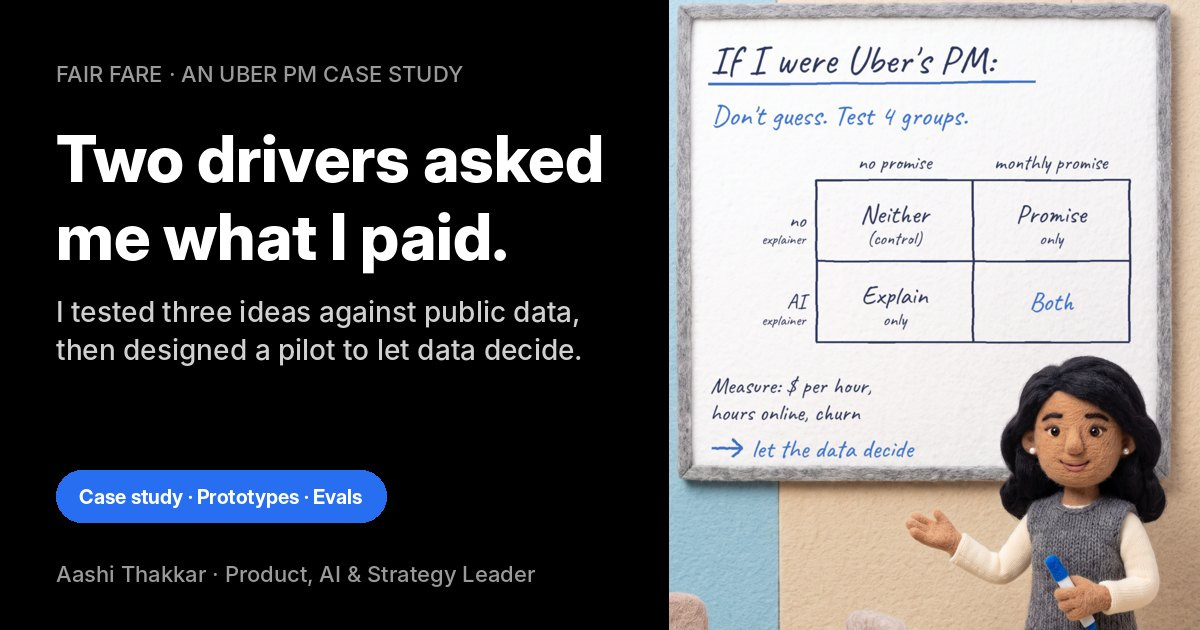
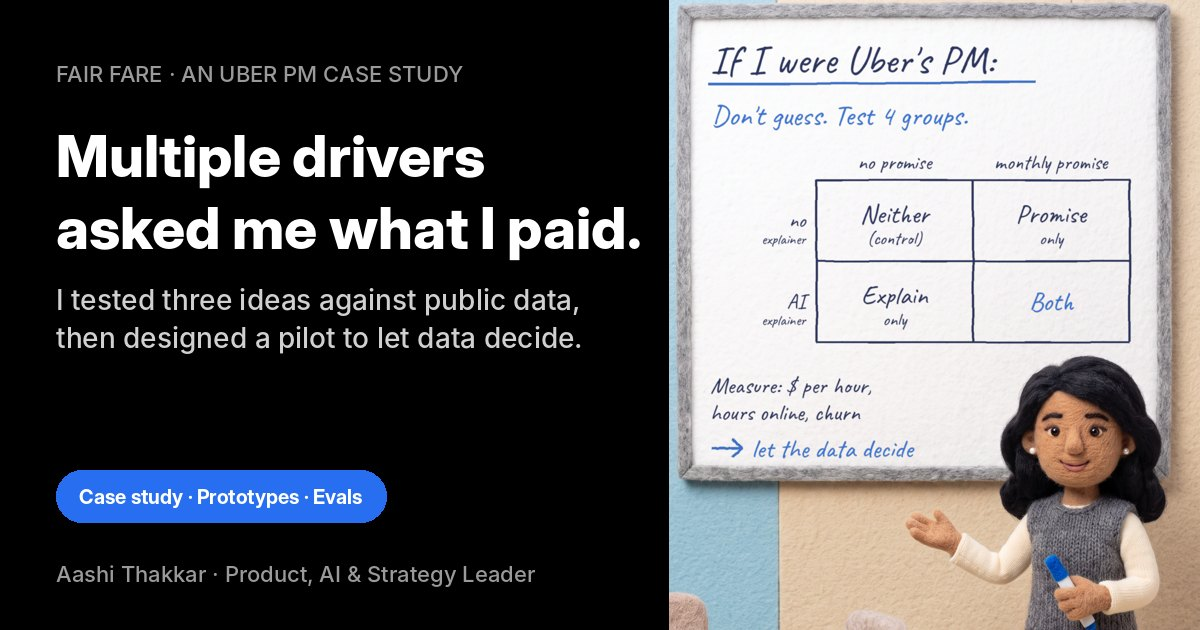
Say multiple drivers, not two, across case study, docs and share image
Claude-Session: https://claude.ai/code/session_014tC2iNUN6bVJh8faq76uPm

Changed region(s): [[0.0308, 0.4524, 0.4933, 0.573], [0.0308, 0.2111, 0.5242, 0.3016], [0.0308, 0.3317, 0.555, 0.4222]]

diff --git a/index.html b/index.html
@@ -4,19 +4,18 @@
 <meta charset="utf-8">
 <meta name="viewport" content="width=device-width, initial-scale=1">
 <title>Fair Fare: an Uber PM case study</title>
-<meta name="description" content="Two drivers asked me what I paid. I tested three ideas against NYC public trip data, then designed a four-group pilot to let data decide.">
+<meta name="description" content="Multiple drivers asked me what I paid. I tested three ideas against NYC public trip data, then designed a four-group pilot to let data decide.">
 <link rel="icon" href="/favicon.svg" type="image/svg+xml">
 <meta property="og:type" content="website">
 <meta property="og:site_name" content="Fair Fare">
 <meta property="og:title" content="Fair Fare: an Uber PM case study">
-<meta property="og:description" content="Two drivers asked me what I paid. I tested three ideas against NYC public trip data, then designed a four-group pilot to let data decide.">
+<meta property="og:description" content="Multiple drivers asked me what I paid. I tested three ideas against NYC public trip data, then designed a four-group pilot to let data decide.">
 <meta property="og:url" content="https://fair-fare-aashi.vercel.app/">
 <meta property="og:image" content="https://fair-fare-aashi.vercel.app/og.jpg">
 <meta property="og:image:width" content="1200">
 <meta property="og:image:height" content="630">
 <meta name="twitter:card" content="summary_large_image">
 <meta name="twitter:image" content="https://fair-fare-aashi.vercel.app/og.jpg">
-<meta name="description" content="Two drivers in two countries asked me what I paid. A product case study on driver trust, built on 51.5 million public trips, plus a working tool. By Aashi Thakkar.">
 <link rel="preconnect" href="https://fonts.googleapis.com"><link rel="preconnect" href="https://fonts.gstatic.com" crossorigin>
 <link href="https://fonts.googleapis.com/css2?family=Inter+Tight:wght@600;700;800&family=Inter:wght@400;500;600;700&display=swap" rel="stylesheet">
 <link rel="stylesheet" href="base.css">
@@ -141,7 +140,7 @@ td.n{text-align:right;font-variant-numeric:tabular-nums;white-space:nowrap;font-
 
 <header class="hero"><div class="wrap">
   <div class="rise">
-    <h1>Two drivers asked me what I paid. Here's how I'd find out what Uber should do about it.</h1>
+    <h1>Multiple drivers asked me what I paid. Here's how I'd find out what Uber should do about it.</h1>
     <p class="lede">A product case study: where the gap in rideshare pay really is, three ideas I tested against the evidence, and the pilot I'd run as Uber's PM to let data choose. With two working prototypes.</p>
     <div class="by"><span><b>Aashi Thakkar</b> · Product, AI &amp; Strategy Leader · November 2026</span></div>
     <div class="cta"><a class="btn inv" href="#bet">See the pilot</a><a class="btn" style="background:#222;color:#fff" href="why.html">Try the prototype</a></div>
@@ -156,7 +155,7 @@ td.n{text-align:right;font-variant-numeric:tabular-nums;white-space:nowrap;font-
   <p class="kick">Summary</p>
   <h2>Uber's cut swings trip to trip, and US drivers have no ceiling on it.</h2>
   <div class="tldr">
-    <div><b>The problem</b><p>Two drivers in two countries weren't sure they were getting a fair share, and asked what I paid. Since 2022, what riders pay and what drivers earn move separately, and Uber's share varies trip to trip by design.</p></div>
+    <div><b>The problem</b><p>Multiple drivers, in more than one country, weren't sure they were getting a fair share, and asked what I paid. Since 2022, what riders pay and what drivers earn move separately, and Uber's share varies trip to trip by design.</p></div>
     <div><b>The evidence</b><p>Nationally, Uber charges more and keeps more per trip than Lyft. In New York, Uber kept over 40% on 18.6% of its trips and nothing on 21.4%. Lyft caps its cut each month; Uber doesn't in the US.</p></div>
     <div><b>The proposal</b><p>I tested three ideas against the evidence. Two survive, and either could be wrong. So instead of picking one, I'd run a four-group pilot: an explanation, a promise, both, or neither. I built a prototype for each.</p></div>
   </div>
@@ -169,10 +168,10 @@ td.n{text-align:right;font-variant-numeric:tabular-nums;white-space:nowrap;font-
     <div class="prose">
       <p>I open Lyft first. For my trips, it usually feels cheaper, so Uber is my second tab. One night I took an Uber anyway.</p>
       <p>Near the end of the ride, my driver asked me a question. He wasn't sure he was getting a fair share of what riders pay.</p>
-      <p>Months later, in another country, a different driver had the same doubt and asked me the same question. Two drivers, two countries, one question. That's not an anecdote anymore. That's a pattern worth pulling on.</p>
+      <p>Months later, in another country, a different driver had the same doubt and asked me the same question. And they weren't the only ones. Different drivers, more than one country, one question. That's not an anecdote anymore. That's a pattern worth pulling on.</p>
     </div>
     <div>
-      <p class="quote">"Can I ask how much you paid?"<small>Asked by two drivers, in two countries, months apart. Cities left out on purpose.</small></p>
+      <p class="quote">"Can I ask how much you paid?"<small>Asked by multiple drivers, in more than one country, months apart. Cities left out on purpose.</small></p>
       <div class="moments" style="margin-top:18px">
         <div class="mo"><b>What they felt</b><p>Unsure they get a fair share of what riders pay.</p></div>
         <div class="mo"><b>What they did</b><p>Asked a rider, because the rider is the only other person who saw the price.</p></div>
@@ -192,7 +191,7 @@ td.n{text-align:right;font-variant-numeric:tabular-nums;white-space:nowrap;font-
     <div class="g"><b>18.6% vs 21.4%</b><p>Uber NYC trips where Uber kept over 40%, vs trips where it kept nothing, September 2026. The average stays near 22%. Drivers remember the first kind.<small>My analysis of NYC TLC trip records · <a href="promise.html">see the spread</a></small></p></div>
     <div class="g"><b>30% cap vs none</b><p>Lyft caps its fee at 30% of what riders paid each month and tops drivers up if it goes over. Uber makes a weekly "never makes more than you" promise in some countries, but not across the US.<small>Lyft, April 2026; Uber service fee pages</small></p></div>
   </div>
-  <div class="caveat"><b>What this is, and isn't.</b> The trip-level numbers are one city's public data, a city with a driver pay floor. My two drivers were elsewhere. National reports fill some of the gap, but with Uber's own data the answer could change. That's why my proposal is an experiment, not a verdict.</div>
+  <div class="caveat"><b>What this is, and isn't.</b> The trip-level numbers are one city's public data, a city with a driver pay floor. The drivers who asked me were elsewhere. National reports fill some of the gap, but with Uber's own data the answer could change. That's why my proposal is an experiment, not a verdict.</div>
 </div></section><section class="band grey" id="data"><div class="wrap">
   <p class="kick">NYC data</p>
   <h2>What one city's 51.5 million public trips can and can't say.</h2>
@@ -300,7 +299,7 @@ td.n{text-align:right;font-variant-numeric:tabular-nums;white-space:nowrap;font-
   <p class="kick">Limits</p>
   <h2>What this doesn't prove.</h2>
   <div class="prose">
-    <p>All trip-level numbers come from one city with a driver pay floor, so Uber's share there runs lower than elsewhere, and the cap would cost more in other cities. Public data has no driver IDs, so the promise cost is a range from three assumptions, not a measurement. The assistant runs on synthetic trips, and its 40-case eval set is a starting point, not a launch gate. National figures come from Gridwise's driver network, which may not represent every driver. My two drivers are two people: they're why I looked, not the evidence. With Uber's data, the conclusions could change, which is the point of the pilot.</p>
+    <p>All trip-level numbers come from one city with a driver pay floor, so Uber's share there runs lower than elsewhere, and the cap would cost more in other cities. Public data has no driver IDs, so the promise cost is a range from three assumptions, not a measurement. The assistant runs on synthetic trips, and its 40-case eval set is a starting point, not a launch gate. National figures come from Gridwise's driver network, which may not represent every driver. The drivers who asked me are a handful of people: they're why I looked, not the evidence. With Uber's data, the conclusions could change, which is the point of the pilot.</p>
   </div>
 </div></section>
 

diff --git a/docs/CASE_STUDY.md b/docs/CASE_STUDY.md
@@ -1,12 +1,12 @@
-# Two drivers asked me what I paid. Here's what I'd build as Uber's PM.
+# Multiple drivers asked me what I paid. Here's what I'd build as Uber's PM.
 
 *Aashi Thakkar · Product, AI & Strategy Leader · November 2026 · Independent project, not affiliated with Uber or Lyft*
 
 ## Summary
-The information exists. It just isn't trusted where it matters. Uber already shows drivers its fee per trip and weekly, and already has an AI driver assistant. Drivers in two countries still asked me what I paid. My proposal: teach Uber Assistant one new question, "the rider paid $X, I got $Y, why?", answered only from that trip's breakdown. I built it and evaluated it.
+The information exists. It just isn't trusted where it matters. Uber already shows drivers its fee per trip and weekly, and already has an AI driver assistant. Drivers in more than one country still asked me what I paid. My proposal: teach Uber Assistant one new question, "the rider paid $X, I got $Y, why?", answered only from that trip's breakdown. I built it and evaluated it.
 
 ## The moment
-I open Lyft first. For my trips, it usually feels cheaper. One night I took an Uber anyway. Near the end, my driver asked: "Can I ask how much you paid?" He wasn't sure he was getting a fair share of what riders pay. Months later, in another country, a different driver had the same doubt and asked me the same question. Cities are left out on purpose.
+I open Lyft first. For my trips, it usually feels cheaper. One night I took an Uber anyway. Near the end, my driver asked: "Can I ask how much you paid?" He wasn't sure he was getting a fair share of what riders pay. Months later, in another country, a different driver had the same doubt and asked me the same question. And they weren't the only ones. Cities are left out on purpose.
 
 ## The data (NYC TLC public trip records, my analysis)
 Matched trips only: same pickup zone, dropoff zone, hour and day type; prices from quick pickups (driver on scene within 5 minutes).
@@ -30,7 +30,7 @@ See [PRD.md](PRD.md). A new intent in Uber Assistant, grounded only in the trip 
 The rider tool (which app has been cheaper on a New York route) stays as a data explorer.
 
 ## Limits
-One city with a pay floor. Promotions and chosen ride product aren't visible. The wait-time rise has no established cause and I don't tie it to driver sentiment. The Lyft study is preliminary. Two drivers are why I looked, not evidence.
+One city with a pay floor. Promotions and chosen ride product aren't visible. The wait-time rise has no established cause and I don't tie it to driver sentiment. The Lyft study is preliminary. The drivers who asked me are why I looked, not evidence.
 
 ## Sources
 - [NYC TLC trip record data](https://www.nyc.gov/site/tlc/about/tlc-trip-record-data.page) · [TLC driver pay rates](https://www.nyc.gov/site/tlc/about/driver-pay-rates.page)

diff --git a/README.md b/README.md
@@ -2,7 +2,7 @@
 
 *Fair fares for riders, a fair share for drivers.*
 
-**Two drivers, in two countries, asked me what I paid. This is the product case study that question turned into, plus the tool I built along the way.**
+**Multiple drivers, in more than one country, asked me what I paid. This is the product case study that question turned into, plus the tool I built along the way.**
 
 Fair Fare tells a New York rider which app to open first for a specific trip (Uber or Lyft), using 51.5 million public trip records. The case study behind it asks a harder question from the driver's side: Uber already discloses its fee, so why do drivers still ask riders what they paid? And what would I build about it as Uber's PM?
 
@@ -12,7 +12,7 @@ Fair Fare tells a New York rider which app to open first for a specific trip (Ub
 
 ## The short version
 
-- **The problem.** Two drivers in two countries weren't sure they were getting a fair share, and asked what I paid. Since upfront pricing (2022), rider prices and driver pay are set separately for every trip, and Uber's share varies trip to trip by design.
+- **The problem.** Multiple drivers, in more than one country, weren't sure they were getting a fair share, and asked what I paid. Since upfront pricing (2022), rider prices and driver pay are set separately for every trip, and Uber's share varies trip to trip by design.
 - **The gap.** Nationally, Uber charges more and keeps more per trip than Lyft (Gridwise Q3 2026: $24.30 vs $19.76 average fare; $5.45 vs $3.30 platform fee). In NYC (my analysis, Sep 2026), Uber kept over 40% on 18.6% of trips and nothing on 21.4%. Lyft caps its fee at 30% a month; Uber doesn't in the US.
 - **Three ideas tested.** A weekly meter (dropped: Uber already ships weekly statements). An AI that explains each trip (built, kept as one arm). A monthly cap on Uber's cut (simulated, kept as one arm).
 - **The proposal.** A four-group pilot: explanation, promise, both, neither. Primary metrics: driver dollars per hour and online hours. Decision rules for each outcome. See [docs/PRD.md](docs/PRD.md).

diff --git a/docs/DECISION_LOG.md b/docs/DECISION_LOG.md
@@ -2,7 +2,7 @@
 
 | # | Decision | Why | What I gave up |
 |---|---|---|---|
-| 1 | Lead with two drivers' question, not with prices | The question "how much did you pay?" is the product problem. Prices are context. | A simpler "Uber vs Lyft" story |
+| 1 | Lead with the drivers' question, not with prices | The question "how much did you pay?" is the product problem. Prices are context. | A simpler "Uber vs Lyft" story |
 | 2 | Dropped "Uber hides its cut" | Uber's driver pages show the fee on receipts and a weekly statement. The claim would be wrong and unfair. | A punchier headline |
 | 3 | Framed take rate as a disagreement | Uber says about 21%; independent estimates run from a 29% median (London) to over 50% (three US drivers). Uber's number goes first. | A verdict |
 | 4 | Matched trips only, quick pickups only | Raw averages mix trip lengths and discounted wait-longer rides | Coverage on thin routes (borough fallback instead) |
